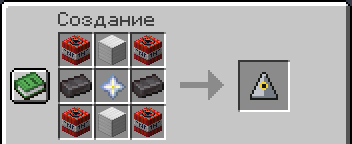
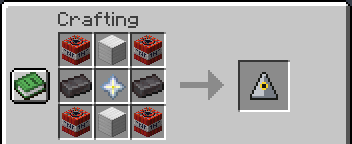
Руководство: кадры с английским интерфейсом
Сценарий guide снимает на en_us (руководство по-английски, русское берёт те же картинки), подсказки клавиш на кадре —
английские. Рецепты и экран пульта режутся от размера кадра: окно во вложенном KWin — 1280×692, и прежняя обрезка
съезжала на 14 px. Перед ЗРК — «incoming clear»: пусковая раздела hud стояла у нового места зрителя и закрывала кадр.
Пересняты 12 рецептов и 8 анимаций на текущем main (ЗРК в настоящую величину).

diff --git a/mod/src/devtest/java/ua/zentix/incoming/scenario/GuideShots.java b/mod/src/devtest/java/ua/zentix/incoming/scenario/GuideShots.java
@@ -242,16 +242,16 @@ final class GuideShots {
         await(20);
         gHold(0.8);
         gDo(() -> mc.options.keyUse.setDown(true));
-        gHint("ПКМ (держать)", 2.0);
+        gHint("RMB (hold)", 2.0);
         gHold(1.6);
-        gHint("колесо мыши", 2.8);
+        gHint("Mouse wheel", 2.8);
         for (double d : new double[]{1, 1, -1, -1}) {
             gDo(() -> Designator.scroll(d));
             gHold(0.65);
         }
         gHold(0.3);
         gDo(Designator::fire);
-        gHint("ЛКМ — пуск", 1.8);
+        gHint("LMB: launch", 1.8);
         gHold(2.4);
         gDo(() -> mc.options.keyUse.setDown(false));
         gHold(0.8);
@@ -350,7 +350,7 @@ final class GuideShots {
         gHold(0.6);
         gMove(this::center, 0.6);
         for (int i = 0; i < ZOOM_OUT; i++) {
-            gScroll(-1, "колесо");
+            gScroll(-1, "Mouse wheel");
             gHold(0.35);
         }
         gDrag(() -> {
@@ -364,11 +364,11 @@ final class GuideShots {
         gClick(0);
         gHold(1.2);
         gMove(() -> at(w1), 0.9);
-        gHint("Shift + ЛКМ", 1.0);
+        gHint("Shift+LMB", 1.0);
         gDo(() -> addWaypoint(w1));
         gHold(0.7);
         gMove(() -> at(w2), 0.9);
-        gHint("Shift + ЛКМ", 1.0);
+        gHint("Shift+LMB", 1.0);
         gDo(() -> addWaypoint(w2));
         gHold(0.7);
         gDrag(() -> at(w2.add(across.scale(MAP_TARGET * 0.2)).add(along.scale(-MAP_TARGET * 0.07))), 1.0);
@@ -383,7 +383,7 @@ final class GuideShots {
             double[] c = center();
             mx = c[0] + 150;
             my = c[1] + 70;
-            hint = "клавиша «,»";
+            hint = "Key ,";
             hintUntil = gifFrame + FPS * 3 / 2;
         });
         gHold(3.0);
@@ -495,7 +495,7 @@ final class GuideShots {
         gEach(3.0, () -> look(village));
         gEach(0.6, () -> look(aim.get()));
         gDo(this::retarget);
-        gHint("ЛКМ — новая цель", 1.8);
+        gHint("LMB: new target", 1.8);
         gEach(6.0, () -> look(aim.get()));
         startGif("loiter", 1.5);
         run(() -> {
@@ -513,6 +513,9 @@ final class GuideShots {
     private void sam() {
         BlockPos[] sam = new BlockPos[1];
         int[] ready = {0};
+        // пусковые прежних разделов стоят до «incoming clear»: пусковая раздела hud — у места зрителя, и зритель ЗРК
+        // (в 22 блоках за ЗРК) стоял бы вплотную к ней — она закрывала полкадра
+        run(() -> cmd("incoming clear"));
         run(() -> onServer(server -> {
             Vec3 at = view.add(across.scale(10));
             sam[0] = BlockPos.containing(at.x, surface(server.overworld(), (int) Math.floor(at.x), (int) Math.floor(at.z)), at.z);
@@ -599,7 +602,7 @@ final class GuideShots {
         until("прорисовки у пусковой", 600, this::worldReady);
         gHold(1.2);
         gDo(() -> setblock(lever[0], wall[0] + ",powered=true]"));
-        gHint("рычаг — сигнал", 1.8);
+        gHint("Lever: signal", 1.8);
         gHold(7.0);
         startGif("launcher", 1);
     }

diff --git a/.claude/rules/client-scenario.md b/.claude/rules/client-scenario.md
@@ -31,8 +31,9 @@ paths:
   облаке почти ничего не строит и рисует вместо рельефа столбы — снимать без `dh`; карта там — по загруженным чанкам
   (прорисовка 20, цель в 180 блоках: за 5 минут генерация успевает около 14 чанков вокруг).
   Shift+ЛКМ без окна не нажать: точку маршрута в GIF ставит сам сценарий, подсказку клавиш он рисует на кадре.
-  Кадры — на русском: `client_scenario.sh guide` ставит `lang:ru_ru` в `options.txt`; в облаке без скрипта
-  `options.txt` пишется руками (как в скрипте, плюс `lang:ru_ru`), иначе клиент встаёт на экране первого запуска.
+  Кадры — по-английски, как руководство (русское берёт те же картинки): `client_scenario.sh guide` ставит
+  `lang:en_us` в `options.txt`, подсказки клавиш на кадре тоже английские; в облаке без скрипта `options.txt` пишется
+  руками (как в скрипте, плюс `lang:en_us`), иначе клиент встаёт на экране первого запуска.
   GIF мира: llvmpipe рисует ~5 кадров в секунду, а GIF идёт 12 — сценарий замедляет сервер (`/tick rate`) по замеренной
   частоте кадров, чтобы GIF шла в заданном темпе (`startGif(имя, темп)`; 0 — экран GUI, кадр на шаг). Шаги планируются
   в конструкторе, до входа в мир: всё, что зависит от места съёмки (`view`, `along`, `across`), — только в лямбдах.
